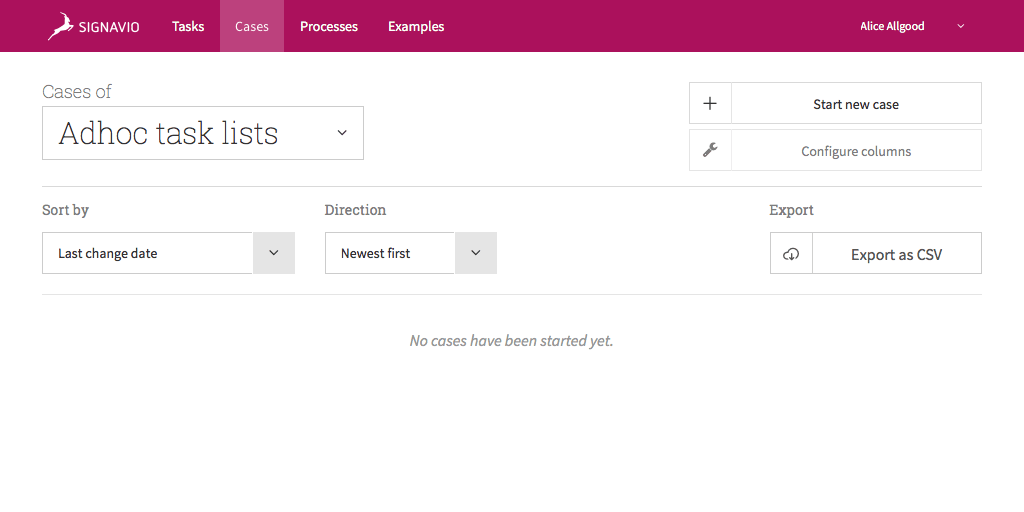
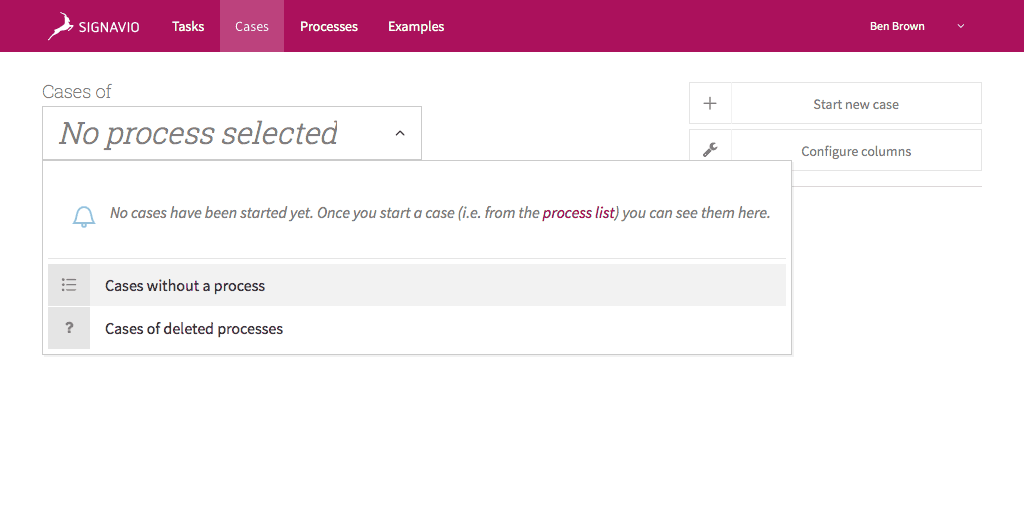
#126 Fix review observations

diff --git a/docs/tutorials/ad-hoc.rst b/docs/tutorials/ad-hoc.rst
@@ -6,14 +6,17 @@ Using an ad hoc case for a document approval
 This tutorial introduces the simplest way to get started with Signavio Workflow.
 You can start without first defining a process by :ref:`start-adhoc`.
 
-Workflows are often used for document approvals, so this tutorial uses the example of approving a report, called *June report*.
+People often use workflows for document approvals, so this tutorial uses the example of approving a report, called *June report*.
 
-In the main menu, select *Cases* and then in the *Cases of* list, select *Cases without a process* from the bottom of the list.
-This opens :ref:`Cases <cases-overview>` view, which you can use to create and view :ref:`ad hoc cases <start-adhoc>`.
+In the main menu, select *Cases* and then select *Cases without a process* from the bottom of the drop-down list.
+This shows the :ref:`Cases <cases-overview>` view, which you can use to create and view :ref:`ad hoc cases <start-adhoc>`.
 
 .. figure:: /_static/images/tutorials/ad-hoc/cases.png
 
    The cases view, where you can start a new case
+
+.. note:: *Ad hoc* cases do not use a pre-defined process model.
+   You can also :ref:`start process cases <start-process>`.
 
 Select *Start new case* to start creating a new ad hoc case.
 This opens the case name prompt.
@@ -39,25 +42,25 @@ The event stream now shows the corresponding events, labelled *added a document*
    Adding a document to the event stream and a task to the task list
 
 .. note:: You can add as many tasks to the case as you like.
-   Use separate tasks for work that different people will do, or work that will be completed at different times.
+   Use separate tasks for work that different people will do, or work that will they will complete at different times.
    
    You can also use the text box above the event stream to :ref:`add comments to the case <comments>`, to add information and collaborate with other people.
 
 Select the *Approve report* task in the list to open the task details view.
 Under the task name, use the assignee selector to assign the task to someone, who will receive a :ref:`notification <task-assigned>`.
-Use the date selector to choose a due date, which will result in reminders if the case is not complete in time.
+Use the date selector to choose a due date, which will result in reminders if the case’s assignee does not complete it in time.
 
 .. figure:: /_static/images/tutorials/ad-hoc/task.png
 
    Details of a task within a case
 
 Select the *Done* button to complete the task.
-As this is the only open task in the case, this closes the case as well.
-You can see that the case is closed by the grey case name background, and from the most event in the event stream.
+As the case does not contain any other open tasks, this closes the case as well.
+You can recognise the case’s closed status by the grey case name background, and from the most recent event in the event stream.
 
 .. figure:: /_static/images/tutorials/ad-hoc/closed.png
 
-   A closed case, after its last task is complete
+   A closed case, after completing its last task
 
 
 .. note:: You can use a similar case for any other kind of approval.

diff --git a/docs/cases.rst b/docs/cases.rst
@@ -40,6 +40,8 @@ Next, type the case title and hit Enter. Signavio Workflow now creates the new c
    New case
 
 
+.. _start-process:
+
 Starting a new process case
 ---------------------------
 
